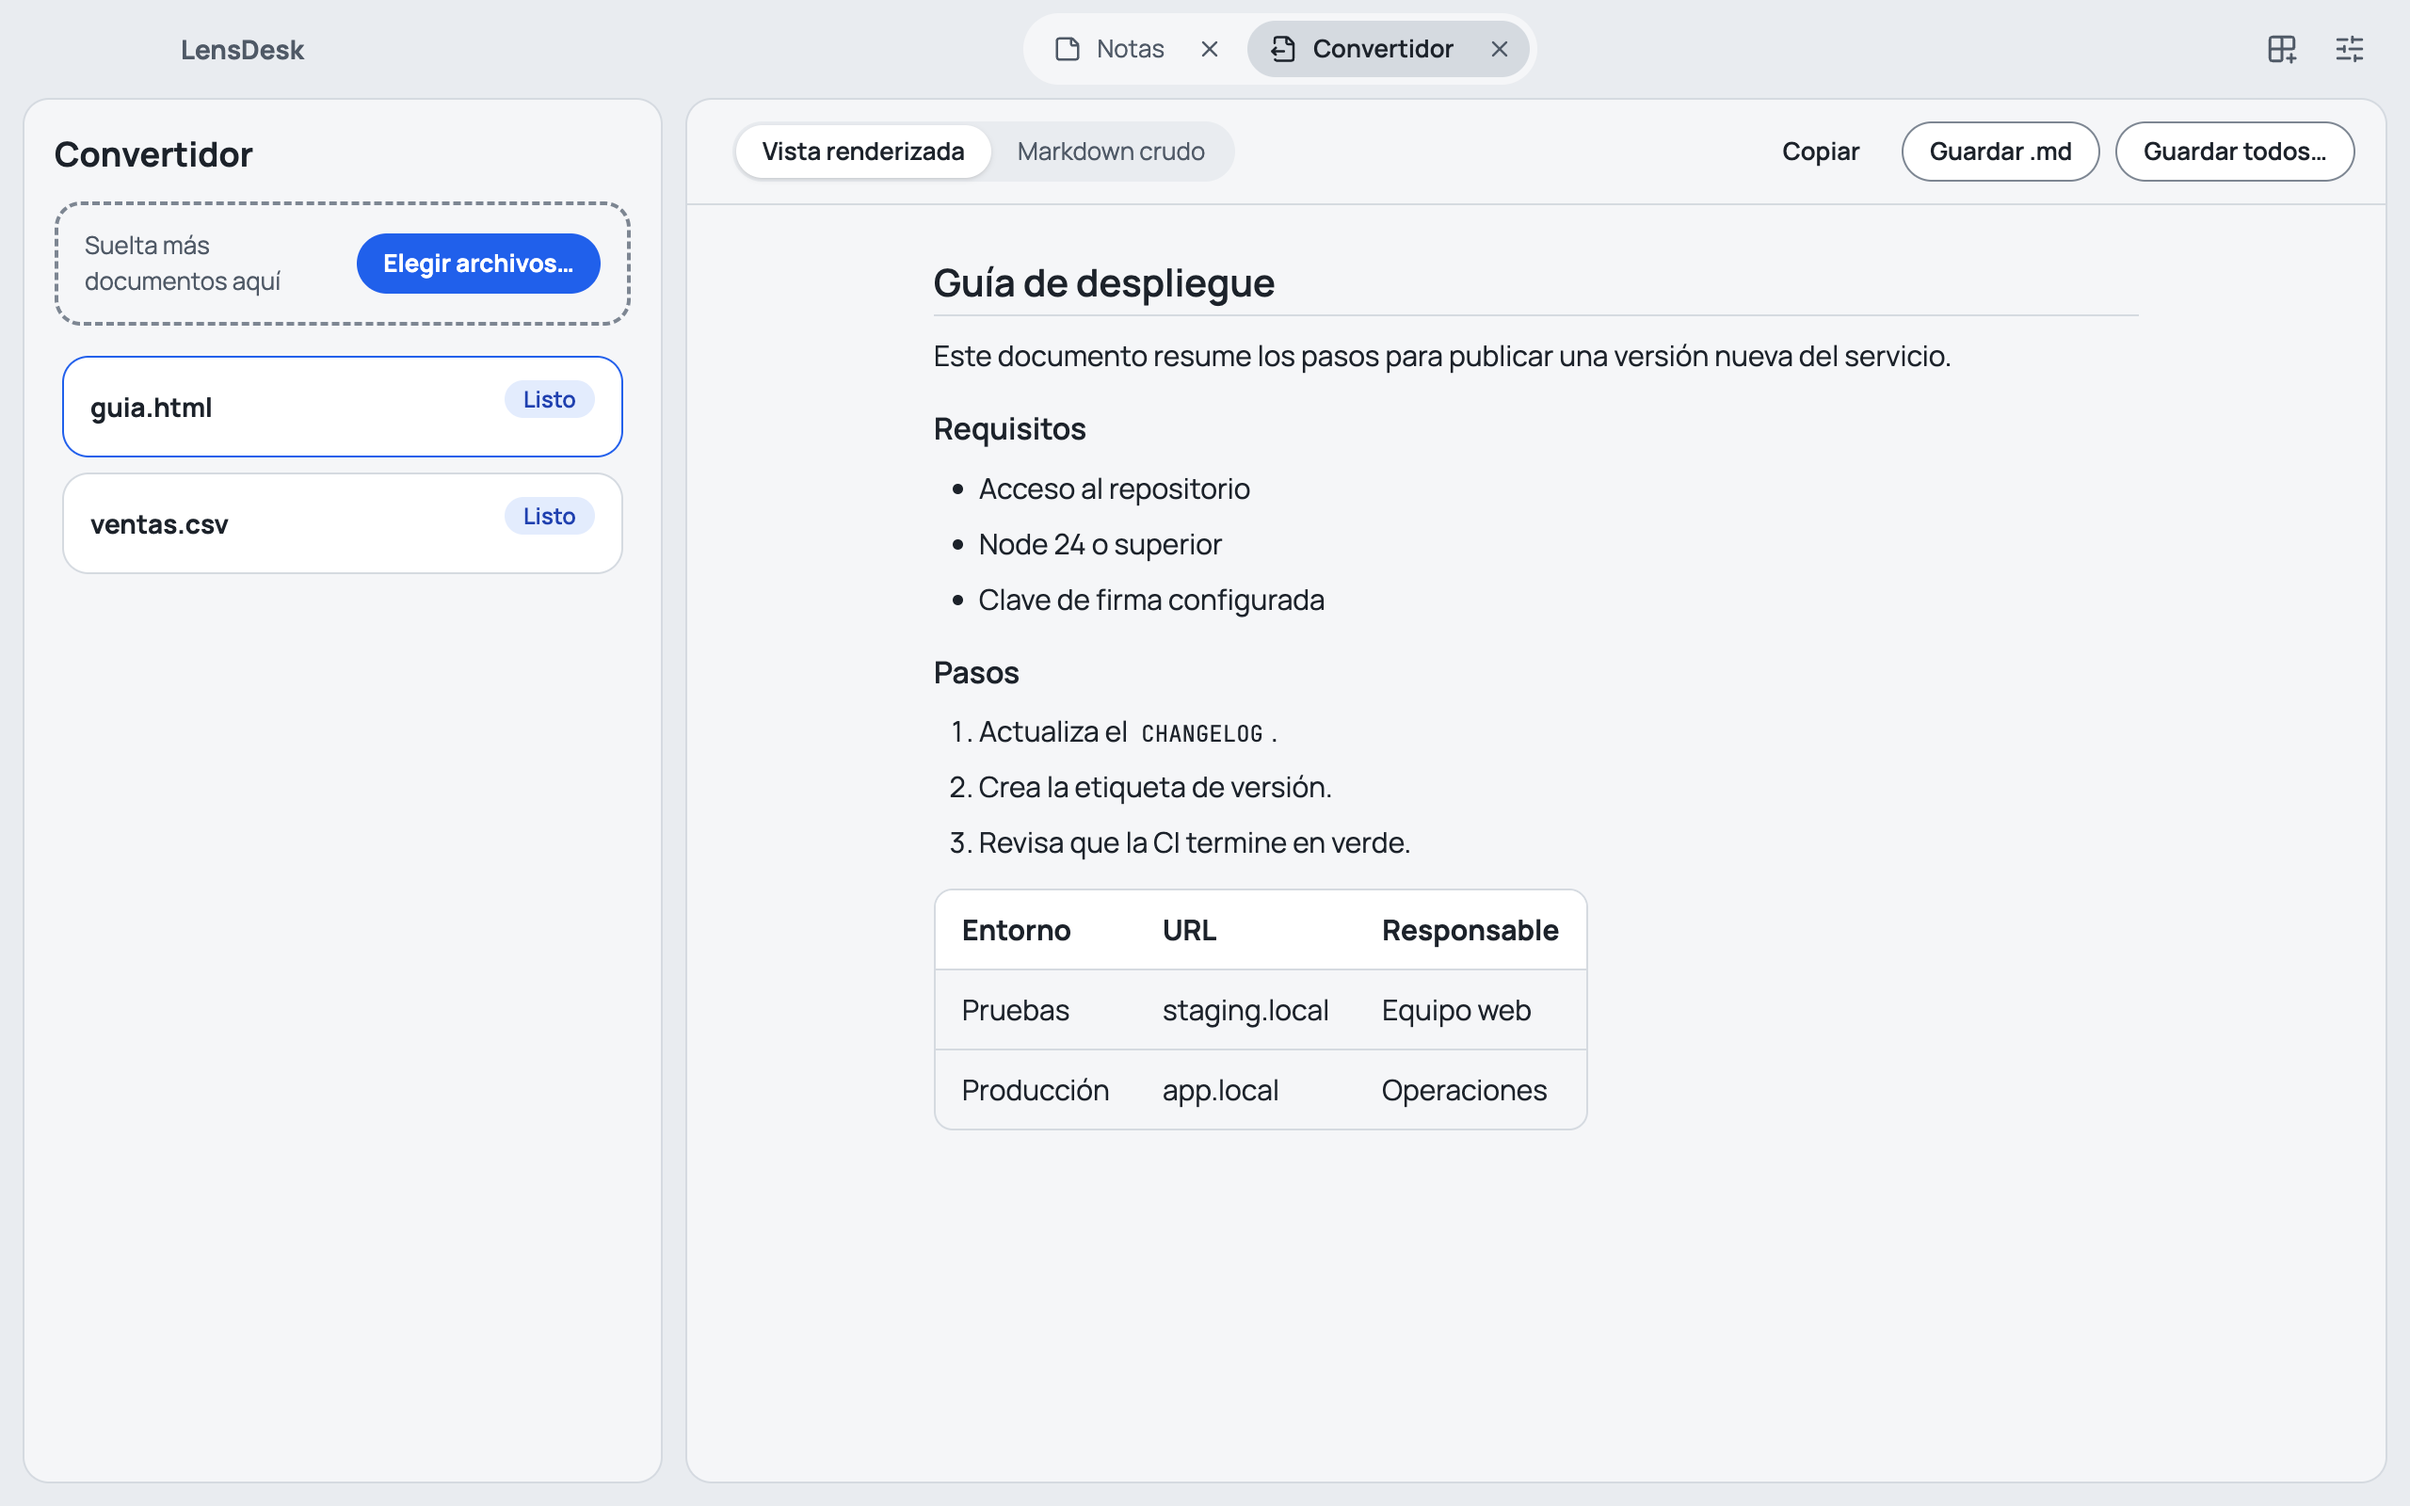
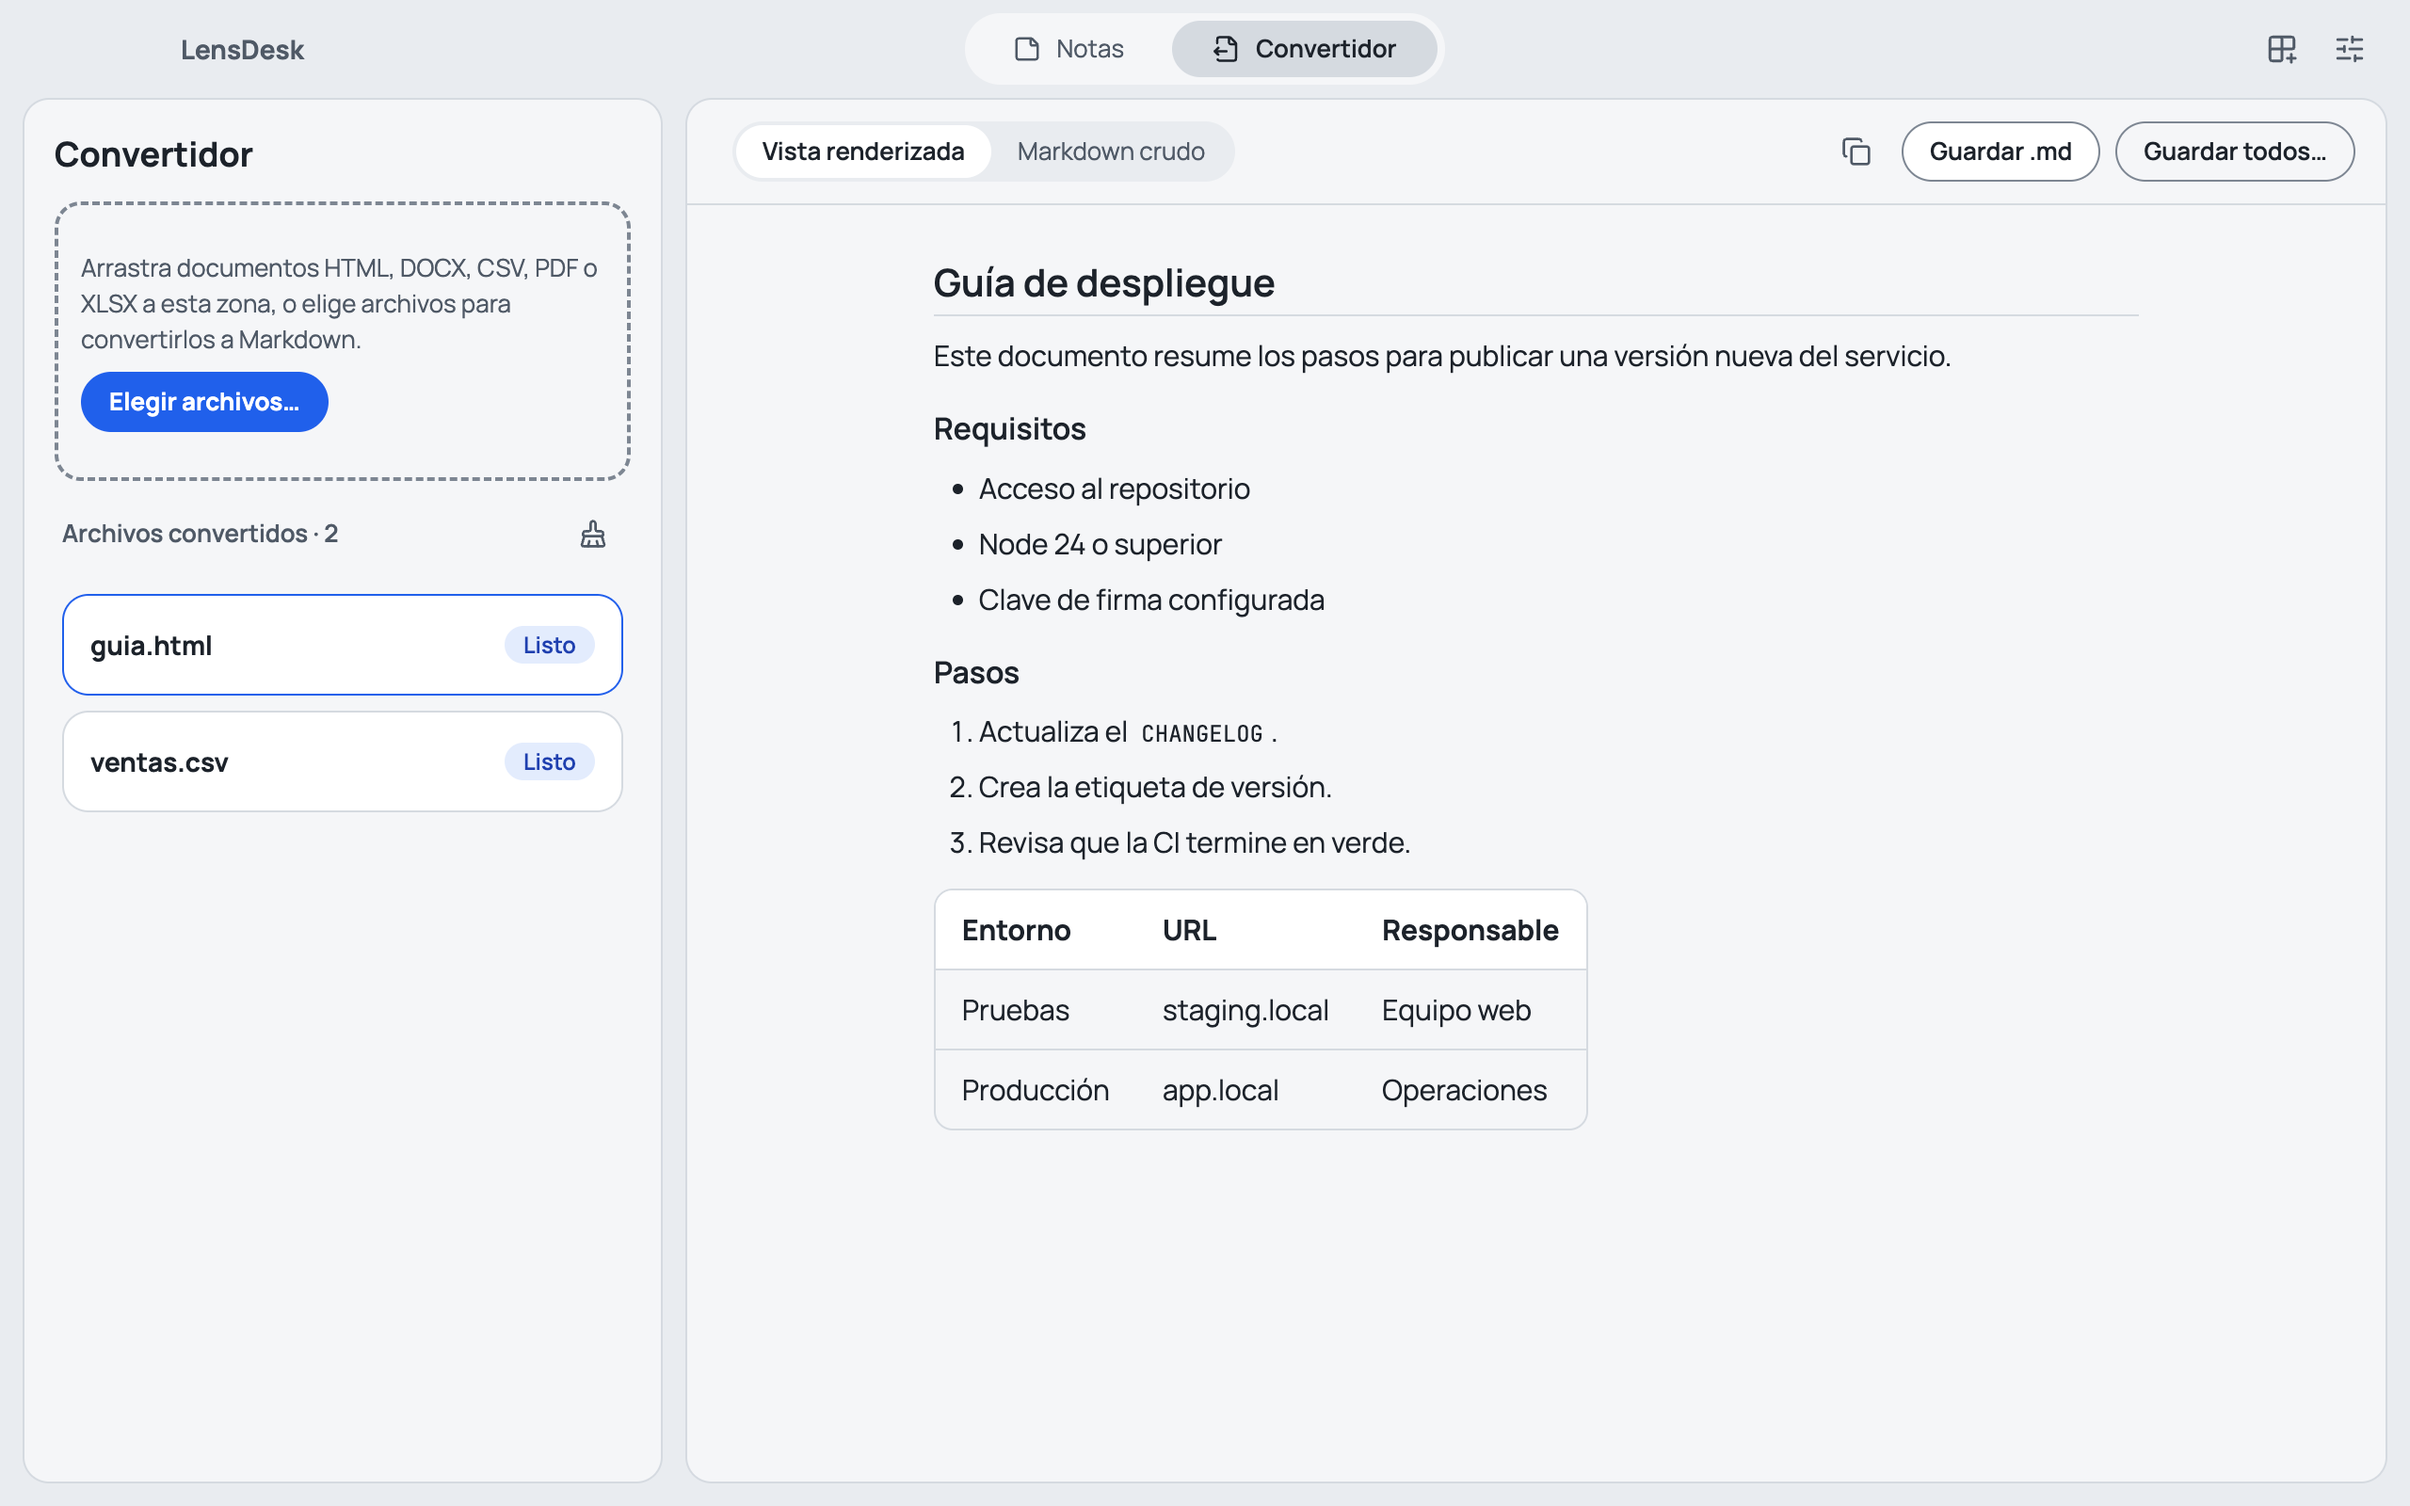
chore(desktop): versión 0.3.0 con historial de cambios

diff --git a/CHANGELOG.md b/CHANGELOG.md
@@ -7,6 +7,54 @@ El formato sigue [Keep a Changelog](https://keepachangelog.com/es-ES/1.1.0/) y e
 
 ## [Sin publicar]
 
+## [0.3.0] - 2026-10-26
+
+Mejoras visuales y de funcionamiento: pestañas, ventana, actualizaciones y Notas.
+
+### Para actualizar
+
+- Reinstala **Notas** y el **Convertidor** con los `.lenspkg` de esta versión para recibir el
+  diseño nuevo y sus funciones: las herramientas instaladas conservan la versión anterior hasta
+  que las reinstalas. Tus notas y ajustes se mantienen.
+
+### Añadido
+
+- Pestañas: reordenar arrastrando o con Ctrl+Mayús+← / →, cerrar con la × al pasar el ratón, con
+  clic central o con ⌘W / Ctrl+W, y un máximo de seis abiertas: al abrir la séptima se cierra la
+  menos usada con un aviso que permite deshacerlo.
+- Ventana: tamaño mínimo de 760 × 520 con diseño adaptable, una sola instancia de LensDesk y
+  opción para abrirlo al iniciar sesión.
+- Actualizaciones: buscar desde Ajustes, aviso en la cabecera que lleva a Ajustes y, para LensDesk
+  y sus herramientas, dos pasos: «Descargar» abre el archivo en el navegador e «Instalar archivo…»
+  lo instala. LensDesk sigue sin descargar nada por su cuenta.
+- Notas: título propio editable, deshacer y rehacer, formato del texto seleccionado, menú de clic
+  derecho con formato e insertar, copiar la nota y los bloques de código, sugerencias de
+  ortografía en macOS, notas archivadas, lista plegable en ventanas estrechas y una nota de guía
+  de Markdown la primera vez.
+- Notas privadas: cifradas en el equipo, con contraseña y preguntas de recuperación, bloqueo tras
+  10 intentos fallidos y bloque de credenciales con campos y botón de copiar.
+- Convertidor: borrar el historial y marca en los archivos ya guardados.
+- Transiciones suaves en pestañas, avisos, menús, interruptores y botones; ninguna con
+  «reducir movimiento».
+- SDK: `onSpelling` y `onVisibilityChange` opcionales y la opción `spellcheck`. La API v1 solo
+  crece.
+
+### Cambiado
+
+- Medidas, colores y espaciado de Herramientas, Ajustes, Notas y el Convertidor ajustados al
+  diseño aprobado; menús con filas de 32 px y atajos a la derecha.
+- Los avisos se colocan junto a Herramientas y Ajustes y se apilan cuando hay más de uno.
+- Textos con tono neutro en LensDesk y en las herramientas.
+- El contorno de foco solo aparece al usar el teclado, no al hacer clic.
+
+### Corregido
+
+- Al arrancar varias veces a la vez, una herramienta podía iniciar más de un proceso.
+- Con un aviso en la cabecera, la interfaz podía quedarse redibujando hasta mostrar «LensDesk
+  encontró un problema».
+- En Windows con la ventana al mínimo, el aviso podía tapar el botón Herramientas.
+- La barra «Convirtiendo» del Convertidor alargaba un instante la lista al desaparecer.
+
 ## [0.2.0] - 2026-10-20
 
 Diseño nuevo para LensDesk y sus herramientas.
@@ -81,6 +129,7 @@ Primera versión pública.
 - Instaladores `.dmg`, `.zip` y `.exe` publicados por la CI con `SHA256SUMS.txt` y las
   herramientas firmadas.
 
-[Sin publicar]: https://github.com/LensSystems/LensDesk/compare/v0.2.0...HEAD
+[Sin publicar]: https://github.com/LensSystems/LensDesk/compare/v0.3.0...HEAD
+[0.3.0]: https://github.com/LensSystems/LensDesk/compare/v0.2.0...v0.3.0
 [0.2.0]: https://github.com/LensSystems/LensDesk/compare/v0.1.0...v0.2.0
 [0.1.0]: https://github.com/LensSystems/LensDesk/releases/tag/v0.1.0
